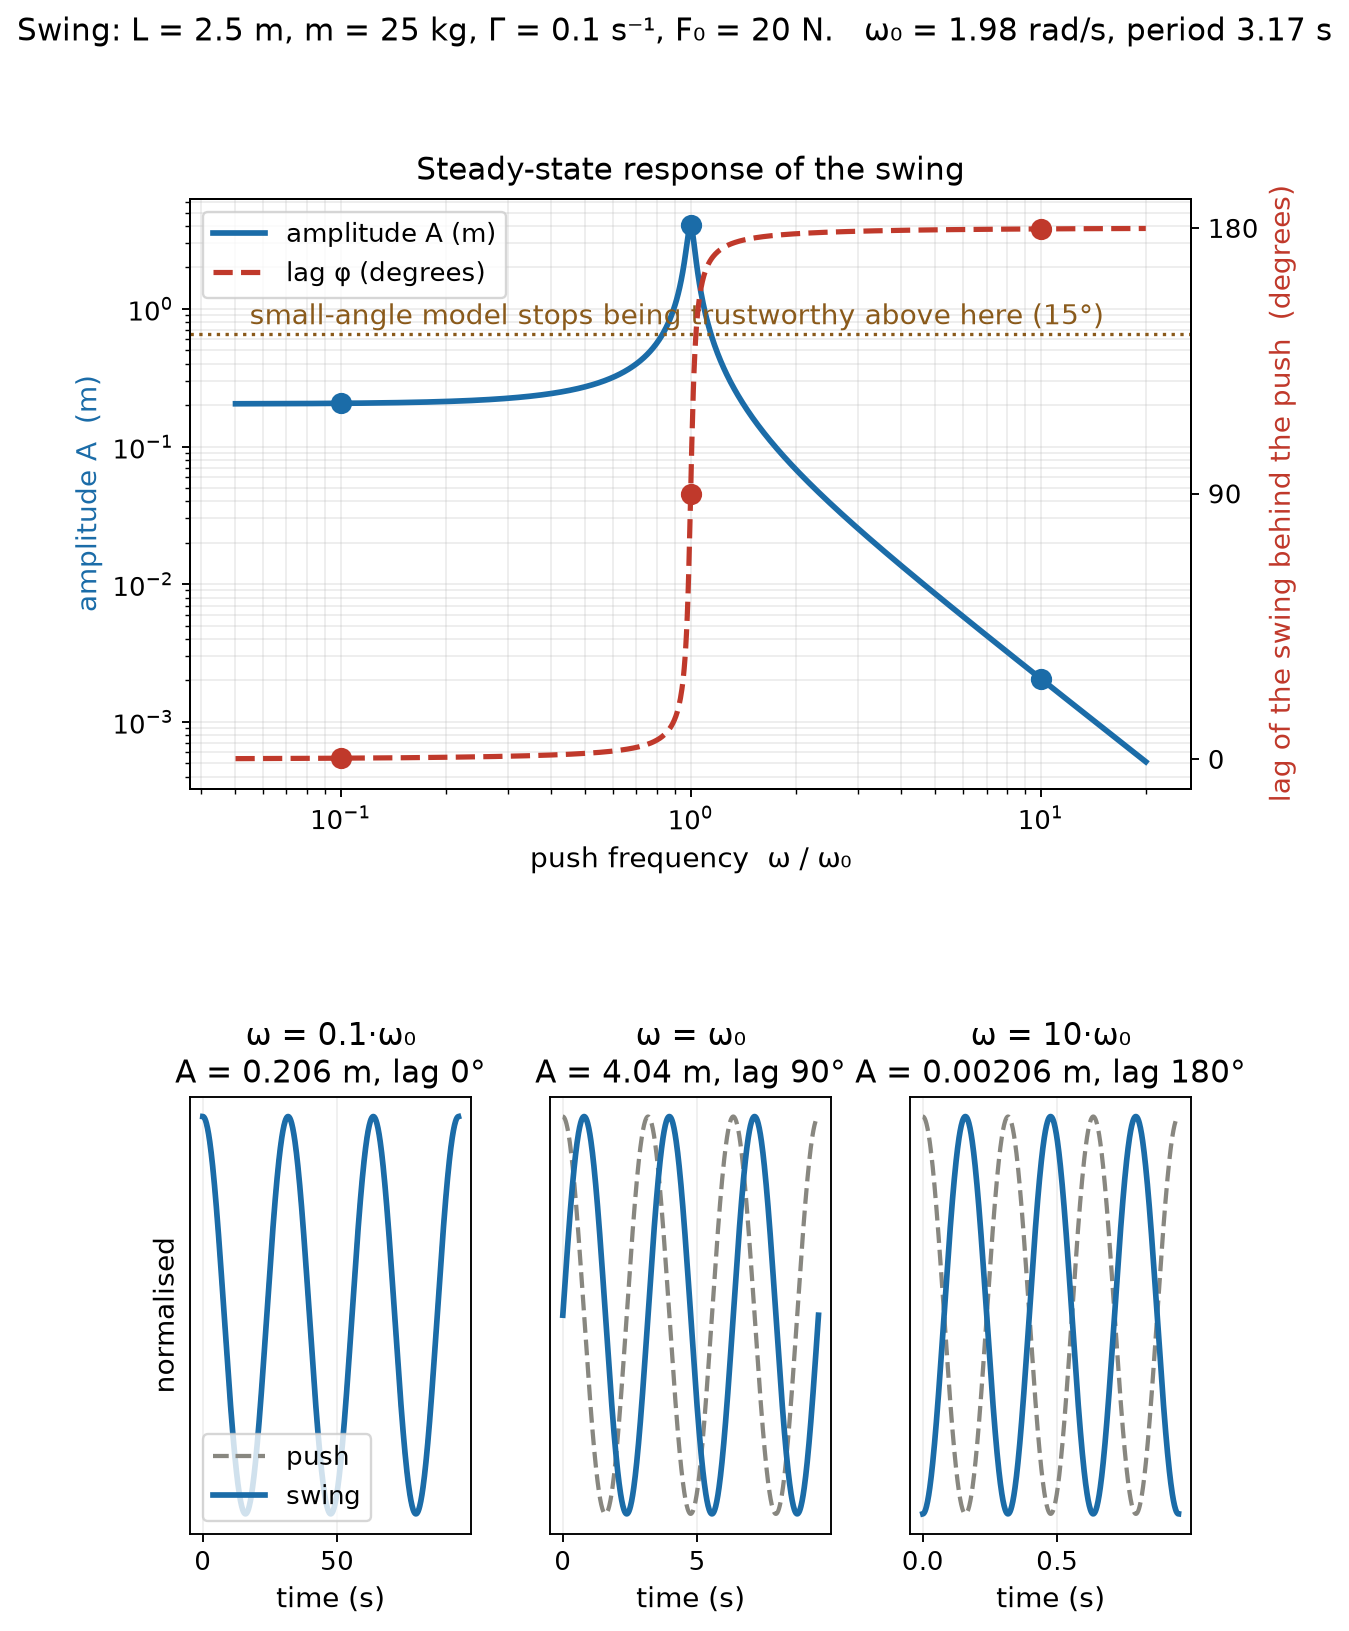
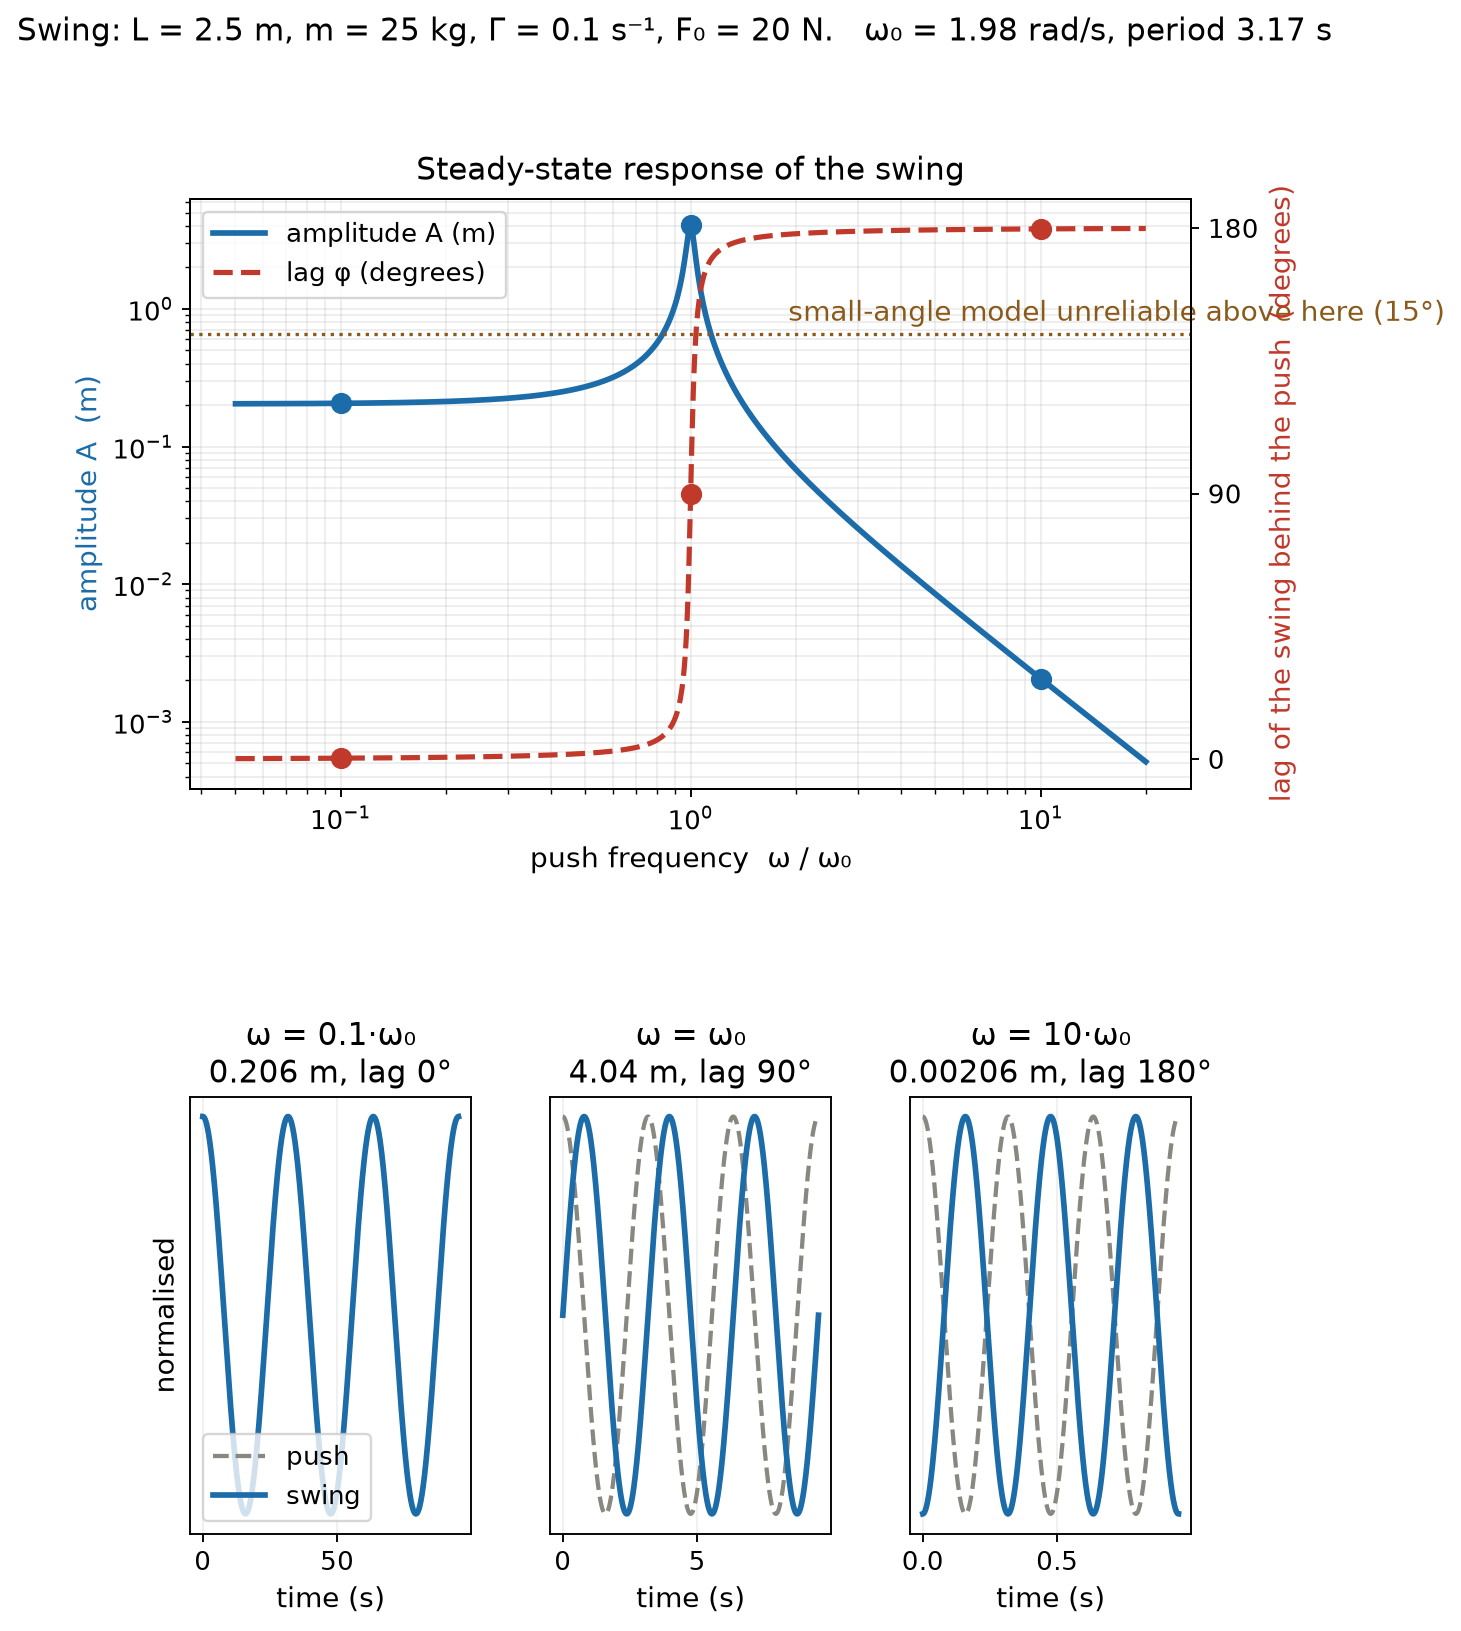
Pendulum and beat-length figures: labels clear under the convention

diff --git a/chain/figures.html b/chain/figures.html
@@ -61,7 +61,7 @@ anchor: <code>figures.html#name</code> jumps straight to it.</div>
 <figure id="phase-delay"><span class="fid">phase-delay</span><img src="img/phase-delay.png?v=e06c6419" alt=""><figcaption>One thin layer of material. The re-radiated wave lags the incident wave by a quarter cycle; their sum peaks later. Accumulated over many layers, that retardation is the refractive index.</figcaption></figure>
 <figure id="lighthouse"><span class="fid">lighthouse</span><img src="img/lighthouse.svg?v=1c2ca7ba" alt=""><figcaption>A pattern may outrun light. The spot sweeps faster than c for a large enough radius, but the light at A and at B are different photons that each travelled at c. Nothing crosses from A to B.</figcaption></figure>
 <figure id="lorentz"><span class="fid">lorentz</span><img src="img/lorentz.png?v=bae1e570" alt=""><figcaption>The bound electron as a driven damped oscillator. Left: its lag behind the driving field, from zero below resonance to half a cycle above. Right: the refractive index and absorption that lag produces.</figcaption></figure>
-<figure id="pendulum"><span class="fid">pendulum</span><img src="img/pendulum.png?v=eec68570" alt=""><figcaption>The same equation as a 2.5 m playground swing, solved in steady state. Below resonance it follows the hands; at resonance it lags a quarter cycle and the linear model exceeds its validity; far above it moves against the push.</figcaption></figure>
+<figure id="pendulum"><span class="fid">pendulum</span><img src="img/pendulum.png?v=bdf29666" alt=""><figcaption>The same equation as a 2.5 m playground swing, solved in steady state. Below resonance it follows the hands; at resonance it lags a quarter cycle and the linear model exceeds its validity; far above it moves against the push.</figcaption></figure>
 <figure id="anharmonic"><span class="fid">anharmonic</span><img src="img/anharmonic.png?v=71dd2ba4" alt=""><figcaption>Nonlinearity is the departure of the electron's binding well from a parabola. A symmetric well has no second-order term, which is why silicon and glass have no χ⁽²⁾ and lithium niobate does.</figcaption></figure>
 
 <h2>Stage 1: the fiber</h2>
@@ -80,7 +80,7 @@ anchor: <code>figures.html#name</code> jumps straight to it.</div>
 <figure id="taper-plan"><span class="fid">taper-plan</span><img src="img/taper-plan.svg?v=ab18c745" alt=""><figcaption>The taper from above: 120 nm at the tip, 500 nm at the far end, 2 mm long, with the hand-off window shaded. The length is compressed about 700 times; at true scale it is 4000 times longer than it is wide.</figcaption></figure>
 <figure id="anticrossing"><span class="fid">anticrossing</span><img src="img/anticrossing.png?v=5bd7a45f" alt=""><figcaption>The two guides alone would cross at 156 nm. Solved together they refuse to, and the light rides the upper curve from a glass mode into a silicon mode. The gap sets the beat length, and the beat length sets how slowly the taper must change.</figcaption></figure>
 
-<figure id="beat-length"><span class="fid">beat-length</span><img src="img/beat-length.png?v=d8267e42" alt=""><figcaption>What a beat length is. Two phase-matched guides held at fixed geometry: light launched in the glass is entirely in the silicon after half a beat length and back in the glass after one. The beat length runs along the light; the adhesive thickness runs across it and is one of the things that sets the beat length, not something compared with it.</figcaption></figure>
+<figure id="beat-length"><span class="fid">beat-length</span><img src="img/beat-length.png?v=6311a473" alt=""><figcaption>What a beat length is. Two phase-matched guides held at fixed geometry: light launched in the glass is entirely in the silicon after half a beat length and back in the glass after one. The beat length runs along the light; the adhesive thickness runs across it and is one of the things that sets the beat length, not something compared with it.</figcaption></figure>
 
 <figure id="taper-window"><span class="fid">taper-window</span><img src="img/taper-window.png?v=3ed2f424" alt=""><figcaption>Offered against needed, on one axis. Top: a linear taper from a 120 nm tip to 500 nm over 2 mm spends about 210 µm of its length passing through the 140 to 180 nm window where the hand-off happens. Bottom: the beat length of the coupled pair at each point of that same stretch, from 118 µm to 1.8 mm. The taper offers less length than one slosh needs over most of the window.</figcaption></figure>
 

diff --git a/chain/beat_length.py b/chain/beat_length.py
@@ -36,8 +36,8 @@ ax0.add_patch(plt.Rectangle((0, 3.6), 1200, 1.0, color="#FAEEDA"))          # ad
 ax0.add_patch(plt.Rectangle((0, 4.6), 1200, 0.9, color="#378ADD"))          # silicon, fixed 155 nm
 ax0.text(170, 2.0, "ion-exchanged guide in the glass", color="#0F6E56", va="center")
 ax0.text(8, 5.05, "silicon guide, held at 155 nm", color="#fff", va="center")
-ax0.annotate("", xy=(975, 4.6), xytext=(975, 3.6), arrowprops=dict(arrowstyle="<->", color="#8a5a1b", lw=1.4))
-ax0.text(990, 4.1, "adhesive, 1 µm\nACROSS the light", color="#8a5a1b", va="center")
+ax0.annotate("", xy=(955, 4.6), xytext=(955, 3.6), arrowprops=dict(arrowstyle="<->", color="#8a5a1b", lw=1.4))
+ax0.text(972, 4.1, "adhesive, 1 µm\nACROSS the light", color="#8a5a1b", va="center")
 ax0.annotate("", xy=(L_BEAT, 7.6), xytext=(0, 7.6), arrowprops=dict(arrowstyle="<->", color="#c0392b", lw=1.6))
 ax0.text(L_BEAT / 2, 8.3, f"beat length, {L_BEAT:.0f} µm, ALONG the light", color="#c0392b", ha="center")
 ax0.annotate("", xy=(140, 2.3), xytext=(20, 2.3), arrowprops=dict(arrowstyle="->", color="#0F6E56", lw=2))

diff --git a/chain/pendulum.py b/chain/pendulum.py
@@ -41,7 +41,7 @@ gs = fig.add_gridspec(2, 3, height_ratios=[1.35, 1], hspace=0.6, wspace=0.28)
 ax = fig.add_subplot(gs[0, :])
 ax.loglog(w / w0, A, lw=2.4, color="#1b6ca8", label="amplitude A (m)")
 ax.axhline(SMALL_ANGLE_M, color="#8a5a1b", ls=":", lw=1.4)
-ax.text(0.055, SMALL_ANGLE_M * 1.18, "small-angle model stops being trustworthy above here (15°)", color="#8a5a1b")
+ax.text(1.9, SMALL_ANGLE_M * 1.25, "small-angle model unreliable above here (15°)", color="#8a5a1b")
 ax.set_ylabel("amplitude A  (m)", color="#1b6ca8")
 ax.set_xlabel("push frequency  ω / ω₀")
 ax2 = ax.twinx()
@@ -66,7 +66,7 @@ for k, (r, lab) in enumerate(cases):
     axk = fig.add_subplot(gs[1, k])
     axk.plot(t, push, lw=1.8, color="#888780", ls="--", label="push")
     axk.plot(t, x, lw=2.4, color="#1b6ca8", label="swing")
-    axk.set_title(f"{lab}\nA = {a:.3g} m, lag {p:.0f}°")
+    axk.set_title(f"{lab}\n{a:.3g} m, lag {p:.0f}°")
     axk.set_xlabel("time (s)"); axk.set_yticks([])
     axk.grid(alpha=.2)
     if k == 0:
